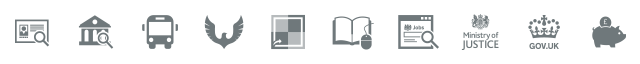
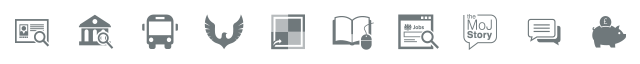
replaced gov.uk and MoJ with Webchat and MoJ story on my moj panel

diff --git a/wp-content/themes/mojintranet/assets/css/src/content/homepage/_my_moj.scss b/wp-content/themes/mojintranet/assets/css/src/content/homepage/_my_moj.scss
@@ -224,11 +224,11 @@
         background-position: -384px 0;
       }
 
-      &.ministry-of-justice-icon {
+      &.moj-story-icon {
         background-position: -448px 0;
       }
 
-      &.gov-uk-icon {
+      &.webchat-icon {
         background-position: -512px 0;
       }
 

diff --git a/wp-content/themes/mojintranet/models/my_moj_model.php b/wp-content/themes/mojintranet/models/my_moj_model.php
@@ -95,16 +95,16 @@ class My_moj_model extends MVC_model {
           'external' => true
         ),
         array(
-          'title' => 'Ministry of Justice',
-          'icon' => 'ministry-of-justice',
-          'url' => 'http://www.justice.gov.uk/',
-          'external' => true
+          'title' => 'The MoJ Story',
+          'icon' => 'moj-story',
+          'url' => site_url('/about-us/moj-story/'),
+          'external' => false
         ),
         array(
-          'title' => 'GOV.UK',
-          'icon' => 'gov-uk',
-          'url' => 'https://www.gov.uk/',
-          'external' => true
+          'title' => 'Webchat',
+          'icon' => 'webchat',
+          'url' => site_url('/webchat/'),
+          'external' => false
         )
       )
     );
